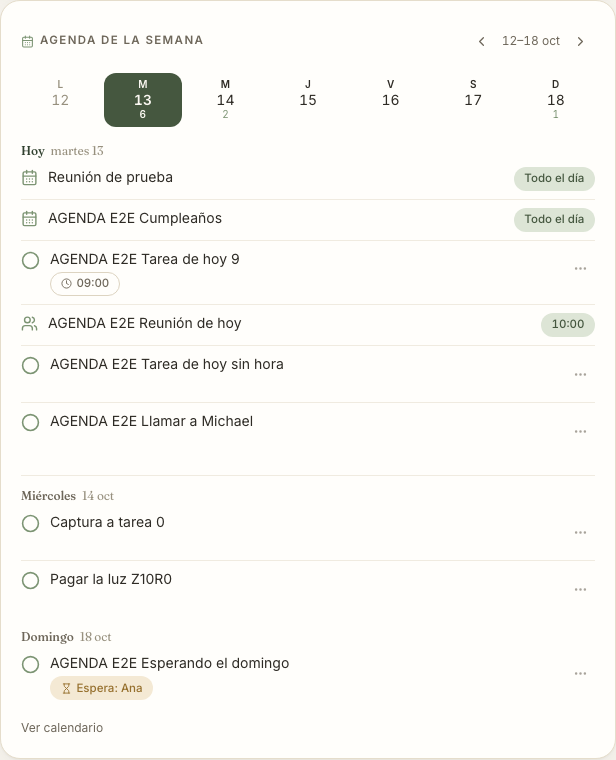
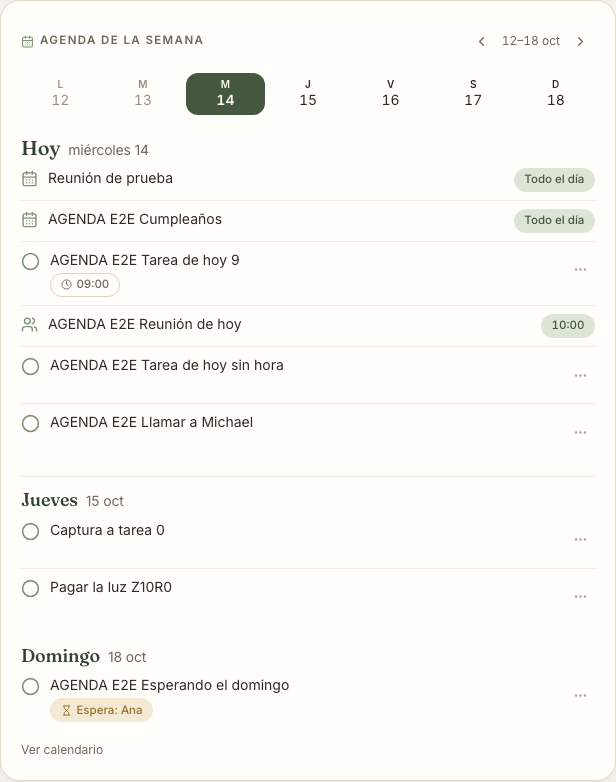
style(hoy): tira semanal sin conteos y encabezados de día más visibles

diff --git a/src/components/hoy/week-agenda.tsx b/src/components/hoy/week-agenda.tsx
@@ -55,10 +55,10 @@ function DayGroup({ day, index, cap }: { day: AgendaDay; index: number; cap?: nu
   const shown = cap ? day.items.slice(0, cap) : day.items;
   const rest = day.items.length - shown.length;
   return (
-    <div data-testid={day.isToday ? "agenda-today" : "agenda-day"} data-date={day.date} className="mt-3 first:mt-0">
-      <h3 className={`font-body text-xs font-semibold flex items-baseline gap-1.5 ${day.isToday ? "text-forest-deep" : "text-stone"}`}>
+    <div data-testid={day.isToday ? "agenda-today" : "agenda-day"} data-date={day.date} className="mt-5 first:mt-0">
+      <h3 className={`font-display flex items-baseline gap-2 text-forest-deep leading-tight ${day.isToday ? "text-xl" : "text-lg"}`}>
         {day.isToday ? "Hoy" : DIAS_LARGOS[index]}
-        <span className="font-normal text-stone-soft">
+        <span className="font-body text-sm font-normal text-stone">
           {day.isToday ? `${DIAS_LARGOS[index].toLowerCase()} ${num(day.date)}` : `${num(day.date)} ${mes(day.date)}`}
         </span>
       </h3>
@@ -122,7 +122,7 @@ export function WeekAgenda({ agenda }: { agenda: WeekAgendaData }) {
         </nav>
       </div>
 
-      {/* Tira de la semana: cuántas cosas hay cada día; un toque abre ese día en Calendario */}
+      {/* Tira de la semana: inicial y fecha, hoy resaltado; un toque abre ese día en Calendario */}
       <ol className="grid grid-cols-7 gap-1 mb-4" data-testid="agenda-strip">
         {days.map((d, i) => {
           const n = d.items.length;
@@ -138,9 +138,6 @@ export function WeekAgenda({ agenda }: { agenda: WeekAgendaData }) {
               >
                 <span className="text-[10px] font-semibold uppercase leading-none">{INICIALES[i]}</span>
                 <span className="text-sm tabular-nums leading-tight mt-0.5">{num(d.date)}</span>
-                <span className={`text-[10px] tabular-nums leading-none h-3 ${d.isToday ? "" : "text-sage-deep"}`}>
-                  {n > 0 ? n : ""}
-                </span>
               </Link>
             </li>
           );
